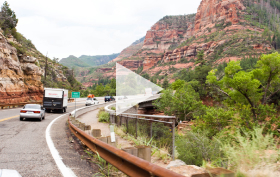
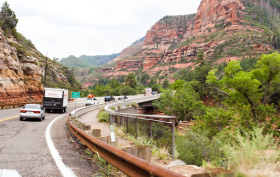
module6-task1

Changed region(s): [[0.4, 0.339, 0.6, 0.6497]]

diff --git a/source/catalog.html b/source/catalog.html
@@ -60,7 +60,14 @@
           <li class="catalog__item catalog__item--full">
             <figure class="catalog__figure">
               <a class="catalog__link" href="#">
-                <img class="catalog__image" src="img/content/spaces.jpg" alt="Неродные просторы." width="280" height="280">
+                <picture class="catalog__picture">
+                  <source media="(min-width: 1200px)"
+                  srcset="img/content/spaces-desktop.jpg 1x, img/content/spaces-desktop@2x.jpg 2x">
+                  <source media="(min-width: 768px)"
+                  srcset="img/content/spaces-tablet.jpg 1x, img/content/spaces-tablet@2x.jpg 2x">
+                  <img class="catalog__image" src="img/content/spaces.jpg"
+                  srcset="img/content/spaces@2x.jpg 2x" alt="Неродные просторы." width="280" height="280">
+                </picture>
               </a>
               <figcaption class="catalog__figcaption">
                 <div class="catalog__autor-wrapper">
@@ -80,7 +87,14 @@
           <li class="catalog__item">
             <figure class="catalog__figure">
               <a class="catalog__link" href="#">
-                <img class="catalog__image" src="img/content/green.jpg" alt="Местная растительность." width="280" height="280">
+                <picture class="catalog__picture">
+                  <source media="(min-width: 1200px)"
+                  srcset="img/content/green-desktop.jpg 1x, img/content/green-desktop@2x.jpg 2x">
+                  <source media="(min-width: 768px)"
+                  srcset="img/content/green-tablet.jpg 1x, img/content/green-tablet@2x.jpg 2x">
+                  <img class="catalog__image" src="img/content/green.jpg"
+                  srcset="img/content/green@2x.jpg 2x" alt="Местная растительность." width="280" height="280">
+                </picture>
               </a>
               <figcaption class="catalog__figcaption">
                 <div class="catalog__autor-wrapper">
@@ -100,7 +114,14 @@
           <li class="catalog__item">
             <figure class="catalog__figure">
               <a class="catalog__link" href="#">
-                <img class="catalog__image" src="img/content/road.jpg" alt="Дорога на север." width="280" height="280">
+                <picture class="catalog__picture">
+                  <source media="(min-width: 1200px)"
+                  srcset="img/content/road-desktop.jpg 1x, img/content/road-desktop@2x.jpg 2x">
+                  <source media="(min-width: 768px)"
+                  srcset="img/content/road-tablet.jpg 1x, img/content/road-tablet@2x.jpg 2x">
+                  <img class="catalog__image" src="img/content/road.jpg"
+                  srcset="img/content/road@2x.jpg 2x" alt="Дорога на север." width="280" height="280">
+                </picture>
               </a>
               <figcaption class="catalog__figcaption">
                 <div class="catalog__autor-wrapper">
@@ -120,7 +141,14 @@
           <li class="catalog__item">
             <figure class="catalog__figure">
               <a class="catalog__link" href="#">
-                <img class="catalog__image" src="img/content/bridge-catalog.jpg" alt="Мост Дьявола." width="280" height="280">
+                <picture class="catalog__picture">
+                  <source media="(min-width: 1200px)"
+                  srcset="img/content/bridge-desktop.jpg 1x, img/content/bridge-desktop@2x.jpg 2x">
+                  <source media="(min-width: 768px)"
+                  srcset="img/content/bridge-tablet.jpg 1x, img/content/bridge-tablet@2x.jpg 2x">
+                  <img class="catalog__image" src="img/content/bridge.jpg"
+                  srcset="img/content/bridge@2x.jpg 2x" alt="Мост Дьявола." width="280" height="280">
+                </picture>
               </a>
               <figcaption class="catalog__figcaption">
                 <div class="catalog__autor-wrapper">
@@ -148,7 +176,15 @@
         </div>
         <div class="presentation__player">
           <a href="https://youtu.be/-pjw1_GucsA">
-            <img src="img/content/presentation.jpg" alt="Видео-презентация.">
+            <picture class="presentation__picture">
+              <source media="(min-width: 1200px)"
+              srcset="img/content/presentation-desktop.jpg 1x, img/content/presentation-desktop@2x.jpg 2x">
+              <source media="(min-width: 768px)"
+              srcset="img/content/presentation-tablet.jpg 1x, img/content/presentation-tablet@2x.jpg 2x">
+              <img src="img/content/presentation.jpg"
+              srcset="img/content/presentation@2x.jpg 2x" alt="Видео-презентация." width="280" height="177">
+            </picture>
+
           </a>
         </div>
       </section>

diff --git a/source/index.html b/source/index.html
@@ -67,7 +67,16 @@
                 <span class="advantages__number">— №1 —</span>
                 <p class="advantages__description">Седона не аттракцион для туристов, <br> там течет своя жизнь</p>
               </figcaption>
-              <img class="figure__photo" src="img/content/town.jpg" alt="Вид городка Седона." width="320" height="260">
+
+              <picture class="advantages__picture">
+                <source media="(min-width: 1200px)"
+                srcset="img/content/town-decktop.jpg 1x, img/content/town-decktop@2x.jpg 2x">
+                <source media="(min-width: 768px)"
+                srcset="img/content/town-tablet.jpg 1x, img/content/town-tablet@2x.jpg 2x">
+                <img class="figure__photo" src="img/content/town.jpg"
+                srcset="img/content/town@2x.jpg 2x" alt="Вид городка Седона." width="320" height="260">
+              </picture>
+
             </figure>
           </li>
 
@@ -93,7 +102,16 @@
                 <span class="advantages__number">— №2 —</span>
                 <p class="advantages__description">Да, по нему можно пройти!<br>Если вы осмелитесь, конечно</p>
               </figcaption>
-              <img class="figure__photo" src="img/content/bridge.jpg" alt="Виды на мост Дьявола." width="320" height="260">
+
+              <picture class="advantages__picture">
+                <source media="(min-width: 1200px)"
+                srcset="img/content/adv-bridge-decktop.jpg 1x, img/content/adv-bridge-decktop@2x.jpg 2x">
+                <source media="(min-width: 768px)"
+                srcset="img/content/adv-bridge-tablet.jpg 1x, img/content/adv-bridge-tablet@2x.jpg 2x">
+                <img class="figure__photo" src="img/content/adv-bridge.jpg"
+                srcset="img/content/adv-bridge@2x.jpg 2x" alt="Виды на мост Дьявола." width="320" height="260">
+              </picture>
+
             </figure>
           </li>
 
@@ -126,7 +144,8 @@
 
       <section class="maps">
         <h2 class="visually-hidden">Седона на карте.</h2>
-        <img src="img/content/map.jpg" alt="Седона на карте.">
+        <iframe src="https://yandex.ru/map-widget/v1/?um=constructor%3A78ff553820b8da9c020aa7aab570fa9807d2cd5a77436a6db15232441065acac&amp;source=constructor" width="100%" height="350" frameborder="0">
+        </iframe>
       </section>
     </main>
 

diff --git a/source/sass/blocks/intro.scss b/source/sass/blocks/intro.scss
@@ -2,15 +2,24 @@
   color: $white;
   background-color: $blue;
   background-image: url("../img/backgrounds/intro.jpg");
-  background-position: center;
+  background-position: 50% 0;
   background-repeat: no-repeat;
   background-size: cover;
   padding: 90px 19px 85px 19px;
   text-align: center;
   position: relative;
 
+  @media (min-resolution: 2dppx) {
+    background-image: url("../img/backgrounds/intro@2x.jpg");
+  }
+
   @media (min-width: $tablet-width) {
+    background-image: url("../img/backgrounds/intro-desktop.jpg");
     padding: 77px 150px 91px 150px;
+
+    @media (min-resolution: 2dppx) {
+      background-image: url("../img/backgrounds/intro-desktop@2x.jpg");
+    }
   }
 
   @media (min-width: $desktop-width) {
@@ -19,6 +28,7 @@
 
   &--secondary {
     padding: 52px 46px 67px 46px;
+    background-position: 50% 100%;
 
     @media (min-width: $tablet-width) {
       padding: 95px 46px 117px 46px;

diff --git a/source/sass/blocks/presentation.scss b/source/sass/blocks/presentation.scss
@@ -40,3 +40,29 @@
     line-height: 26px;
   }
 }
+
+.presentation__player {
+  width: 100%;
+  display: flex;
+  justify-content: center;
+  padding-right: 20px;
+  padding-left: 20px;
+  position: relative;
+
+  ::after {
+    position: absolute;
+    content: "";
+    width: 48px;
+    height: 54px;
+    background-image: url("../img/icons/play.svg");
+    top: 50%;
+    left: 50%;
+    transform: translate(-50%, -50%);
+    opacity: 0.3;
+  }
+}
+
+.presentation__picture {
+  padding: 0;
+  margin: 0;
+}

diff --git a/source/sass/blocks/catalog.scss b/source/sass/blocks/catalog.scss
@@ -85,7 +85,7 @@
 
   .catalog__figure {
     @media (min-width: $desktop-width) {
-      padding-top: 320px;
+      padding-top: 280px;
     }
   }
 }
@@ -143,6 +143,10 @@
   margin: 0;
   margin-bottom: 11px;
 
+  @media (min-width: $tablet-width) {
+    margin-bottom: 0;
+  }
+
   @media (min-width: $desktop-width) {
     color: $white;
   }
@@ -167,4 +171,11 @@
     color: $white;
     margin-left: 9px;
   }
+}
+
+.catalog__picture {
+  width: 100%;
+  padding: 0;
+  margin: 0;
+  display: flex;
 }

diff --git a/source/sass/blocks/figure.scss b/source/sass/blocks/figure.scss
@@ -32,8 +32,6 @@
 }
 
 .figure__photo {
-  @media (min-width: $tablet-width) {
-    width: 66.67%;
-    height: auto;
-  }
+  width: 100%;
+  height: auto;
 }

diff --git a/source/sass/blocks/advantages.scss b/source/sass/blocks/advantages.scss
@@ -205,3 +205,10 @@
   }
 }
 
+.advantages__picture {
+  padding: 0;
+  margin: 0;
+  display: flex;
+  width: 100%;
+  height: auto;
+}
